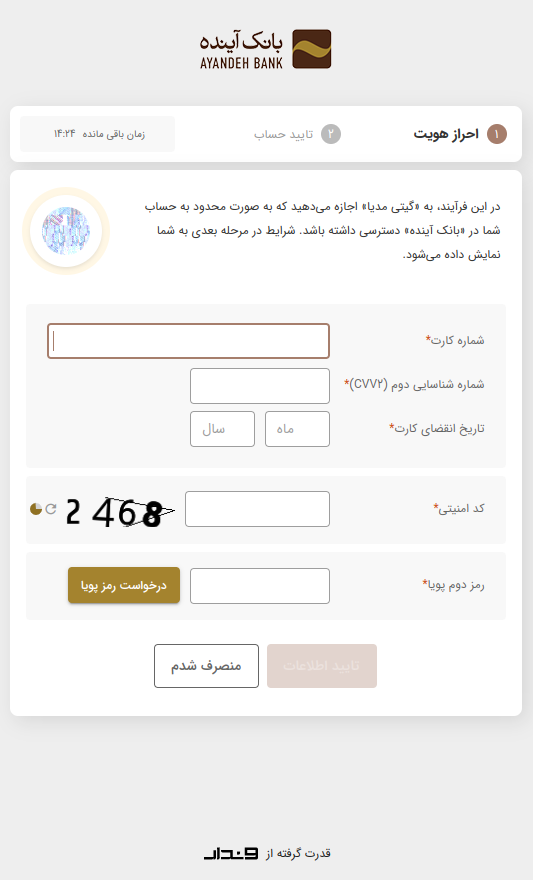
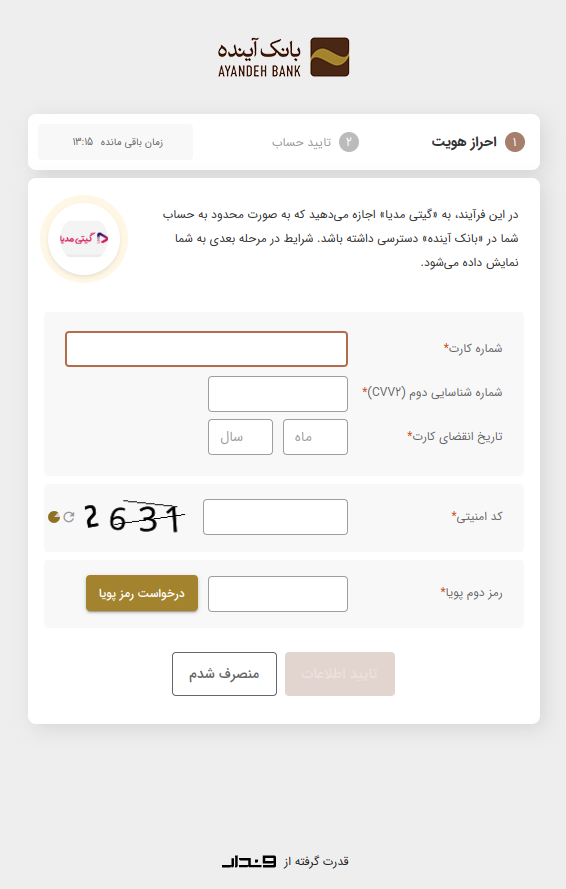
change ayandeh bank pages

diff --git a/subscription/index.html b/subscription/index.html
@@ -241,8 +241,85 @@
                         <p>لیست بانکهایی که در حال حاضر امکان سرویس دایرکتدبیت را پشتیبانی میکنند از این بخش قابل دسترس میباشد.
                             میتوانید بر اساس نیازمندی کسبوکار خود کلیه بانکهای فعال را به کاربران ارائه دهید و یا در صورت نیاز یک لیست شخصیسازی شده برای کسبوکار خود ایجاد کنید و لیست تعیین شدهای از از بانکها را در اختیار کاربران خود قرار دهید.
                         </p>
+                        <h3 class="title" id="all-banks"><a href="#all-banks">
+                            ۱. لیست عمومی بانکها
+                        </a>
+                            <p>
+                                جهت اطلاع از وضعیت کلیه بانکها میتوانید از آدرس زیر استفاده نمایید
+                            </p>
+                        </h3>
+                        <pre>
+<span class="key">Method:</span>  GET
+<span class="key">Address:</span> https://health.vandar.io/subscription
+                        </pre>
+                        </br>
+
+                        <h3 class="sub-title">
+                            نمونه پاسخ دریافتی موفق:
+                        </h3>
+
+                        <pre>
+<span class="key">HTTP/1.1</span> 200
+{
+    "status": 1,
+    "message": "وضعیت بانکها در حال حاضر به این صورت است.",
+    "result": {
+        "banks": [
+            {
+                "code": "012",
+                "name": "بانک ملت",
+                "has_direct_debit_ability": true,
+                "is_healthy_on_direct_debit": true,
+                "logo": "https://vandar.io/assets/img/banks/12.svg"
+            },
+            {
+                "code": "017",
+                "name": "بانک ملی ایران",
+                "has_direct_debit_ability": true,
+                "is_healthy_on_direct_debit": true,
+                "logo": "https://vandar.io/assets/img/banks/17.svg"
+            },
+            {
+                "code": "055",
+                "name": "بانک اقتصاد نوین",
+                "has_direct_debit_ability": true,
+                "is_healthy_on_direct_debit": true,
+                "logo": "https://vandar.io/assets/img/banks/55.svg"
+            },
+            {
+                "code": "056",
+                "name": "بانک سامان",
+                "has_direct_debit_ability": true,
+                "is_healthy_on_direct_debit": true,
+                "logo": "https://vandar.io/assets/img/banks/56.svg"
+            },
+            {
+                "code": "062",
+                "name": "بانک آینده",
+                "has_direct_debit_ability": true,
+                "is_healthy_on_direct_debit": true,
+                "logo": "https://vandar.io/assets/img/banks/62.svg"
+            },
+            {
+                "code": "066",
+                "name": "بانک دی",
+                "has_direct_debit_ability": true,
+                "is_healthy_on_direct_debit": true,
+                "logo": "https://vandar.io/assets/img/banks/66.svg"
+            },
+            {
+                "code": "103",
+                "name": "حساب دیجیتال پاسارگاد",
+                "has_direct_debit_ability": true,
+                "is_healthy_on_direct_debit": true,
+                "logo": "https://vandar.io/assets/img/banks/103.svg"
+            }
+        ]
+    }
+}
+                        </pre>
                         <h3 class="title" id="custome-banks"><a href="#custome-banks">
-                            ۱. لیست شخصیسازی شده بانکها
+                            ۲. لیست شخصیسازی شده بانکها
                         </a>
                         </h3>
                         <p>
@@ -332,83 +409,8 @@
                         </pre>
 
                         </p>
-                            <h3 class="title" id="all-banks"><a href="#all-banks">
-                                ۲. لیست عمومی بانکها
-                            </a>
-                                <p>
-                                    جهت اطلاع از وضعیت کلیه بانکها میتوانید از آدرس زیر استفاده نمایید
-                                </p>
-                        </h3>
-                        <pre>
-<span class="key">Method:</span>  GET
-<span class="key">Address:</span> https://health.vandar.io/subscription
-                        </pre>
-                        </br>
 
-                        <h3 class="sub-title">
-                            نمونه پاسخ دریافتی موفق:
-                        </h3>
 
-                        <pre>
-<span class="key">HTTP/1.1</span> 200
-{
-    "status": 1,
-    "message": "وضعیت بانکها در حال حاضر به این صورت است.",
-    "result": {
-        "banks": [
-            {
-                "code": "012",
-                "name": "بانک ملت",
-                "has_direct_debit_ability": true,
-                "is_healthy_on_direct_debit": true,
-                "logo": "https://vandar.io/assets/img/banks/12.svg"
-            },
-            {
-                "code": "017",
-                "name": "بانک ملی ایران",
-                "has_direct_debit_ability": true,
-                "is_healthy_on_direct_debit": true,
-                "logo": "https://vandar.io/assets/img/banks/17.svg"
-            },
-            {
-                "code": "055",
-                "name": "بانک اقتصاد نوین",
-                "has_direct_debit_ability": true,
-                "is_healthy_on_direct_debit": true,
-                "logo": "https://vandar.io/assets/img/banks/55.svg"
-            },
-            {
-                "code": "056",
-                "name": "بانک سامان",
-                "has_direct_debit_ability": true,
-                "is_healthy_on_direct_debit": true,
-                "logo": "https://vandar.io/assets/img/banks/56.svg"
-            },
-            {
-                "code": "062",
-                "name": "بانک آینده",
-                "has_direct_debit_ability": true,
-                "is_healthy_on_direct_debit": true,
-                "logo": "https://vandar.io/assets/img/banks/62.svg"
-            },
-            {
-                "code": "066",
-                "name": "بانک دی",
-                "has_direct_debit_ability": true,
-                "is_healthy_on_direct_debit": true,
-                "logo": "https://vandar.io/assets/img/banks/66.svg"
-            },
-            {
-                "code": "103",
-                "name": "حساب دیجیتال پاسارگاد",
-                "has_direct_debit_ability": true,
-                "is_healthy_on_direct_debit": true,
-                "logo": "https://vandar.io/assets/img/banks/103.svg"
-            }
-        ]
-    }
-}
-                        </pre>
                         <br>
                         <h2 class="article-header" id="get-token">
                         <a href="#get-token">سرویس دریافت توکن (AUTHORIZATION)</a> </h2>
@@ -641,10 +643,15 @@ https://yourdomain.com/callback?token=0cf235d0-d48b-11ea-86cd-298ec898a9bd&statu
 
 
                         </p>
-
-<img src="../images/authorize-intro.png" alt="صفحه ورود بانک">
-<p>با وارد کردن کد ملی و گذر واژه صحیح وارد صفحه زیر می شوید.</p>
-<img src="../images/authorize.png" alt="صفحه دسترسی">
+<p style=" text-align: center">
+<img src="../images/ayandeh-mandate-step1.png" alt="صفحه ورود بانک" style="max-width: 500px;">
+</p>
+<p>با وارد کردن اطلاعات کارت وارد صفحه زیر می شوید.</p>
+                        <p style=" text-align: center">
+<img src="../images/ayandeh-mandate-step2.png" alt="صفحه دسترسی" style="max-width: 500px;">
+                        </p>
+                        <p>پس از تایید اعطای مجوز، کاربر به آدرس بازگشتی که در مرحله ساخت مجوز ارسال کردهاید هدایت خواهد شد.</p>
+                        <p>در نظر داشته باشید که مراحل اعطای دسترسی و صفحات بانکها متفاوت خواهند بود.</p>
 <h3 class="title" id="subscription-code">
   <a href="#subscription-code">۳. دریافت کد اشتراک</a>
 </h3>

diff --git a/index.html b/index.html
@@ -225,7 +225,7 @@
                     <p>پست من یک ابزار برای تست کردن apiها است. وندار هم برای اینکه شما بتونید از امکانات این ابزار برای
                         تست و توسعه سرویس ها استفاده کنید. مجموعه سرویس هاش رو در قالب یک کالکشن پست من آماده کرده.</p>
                     <div class="download-box">
-                        <a href="https://vandarpay.github.io/docs/VandarAPI_last_update_2022_12_17.postman_collection.json" download><strong>دانلود!</strong>
+                        <a href="https://vandarpay.github.io/docs/VandarAPI_last_update_2023_01_23.postman_collection.json" download><strong>دانلود!</strong>
                             مجموعه سرویس های وندار برای Postman</a>
                     </div>
                     <div class="info">
